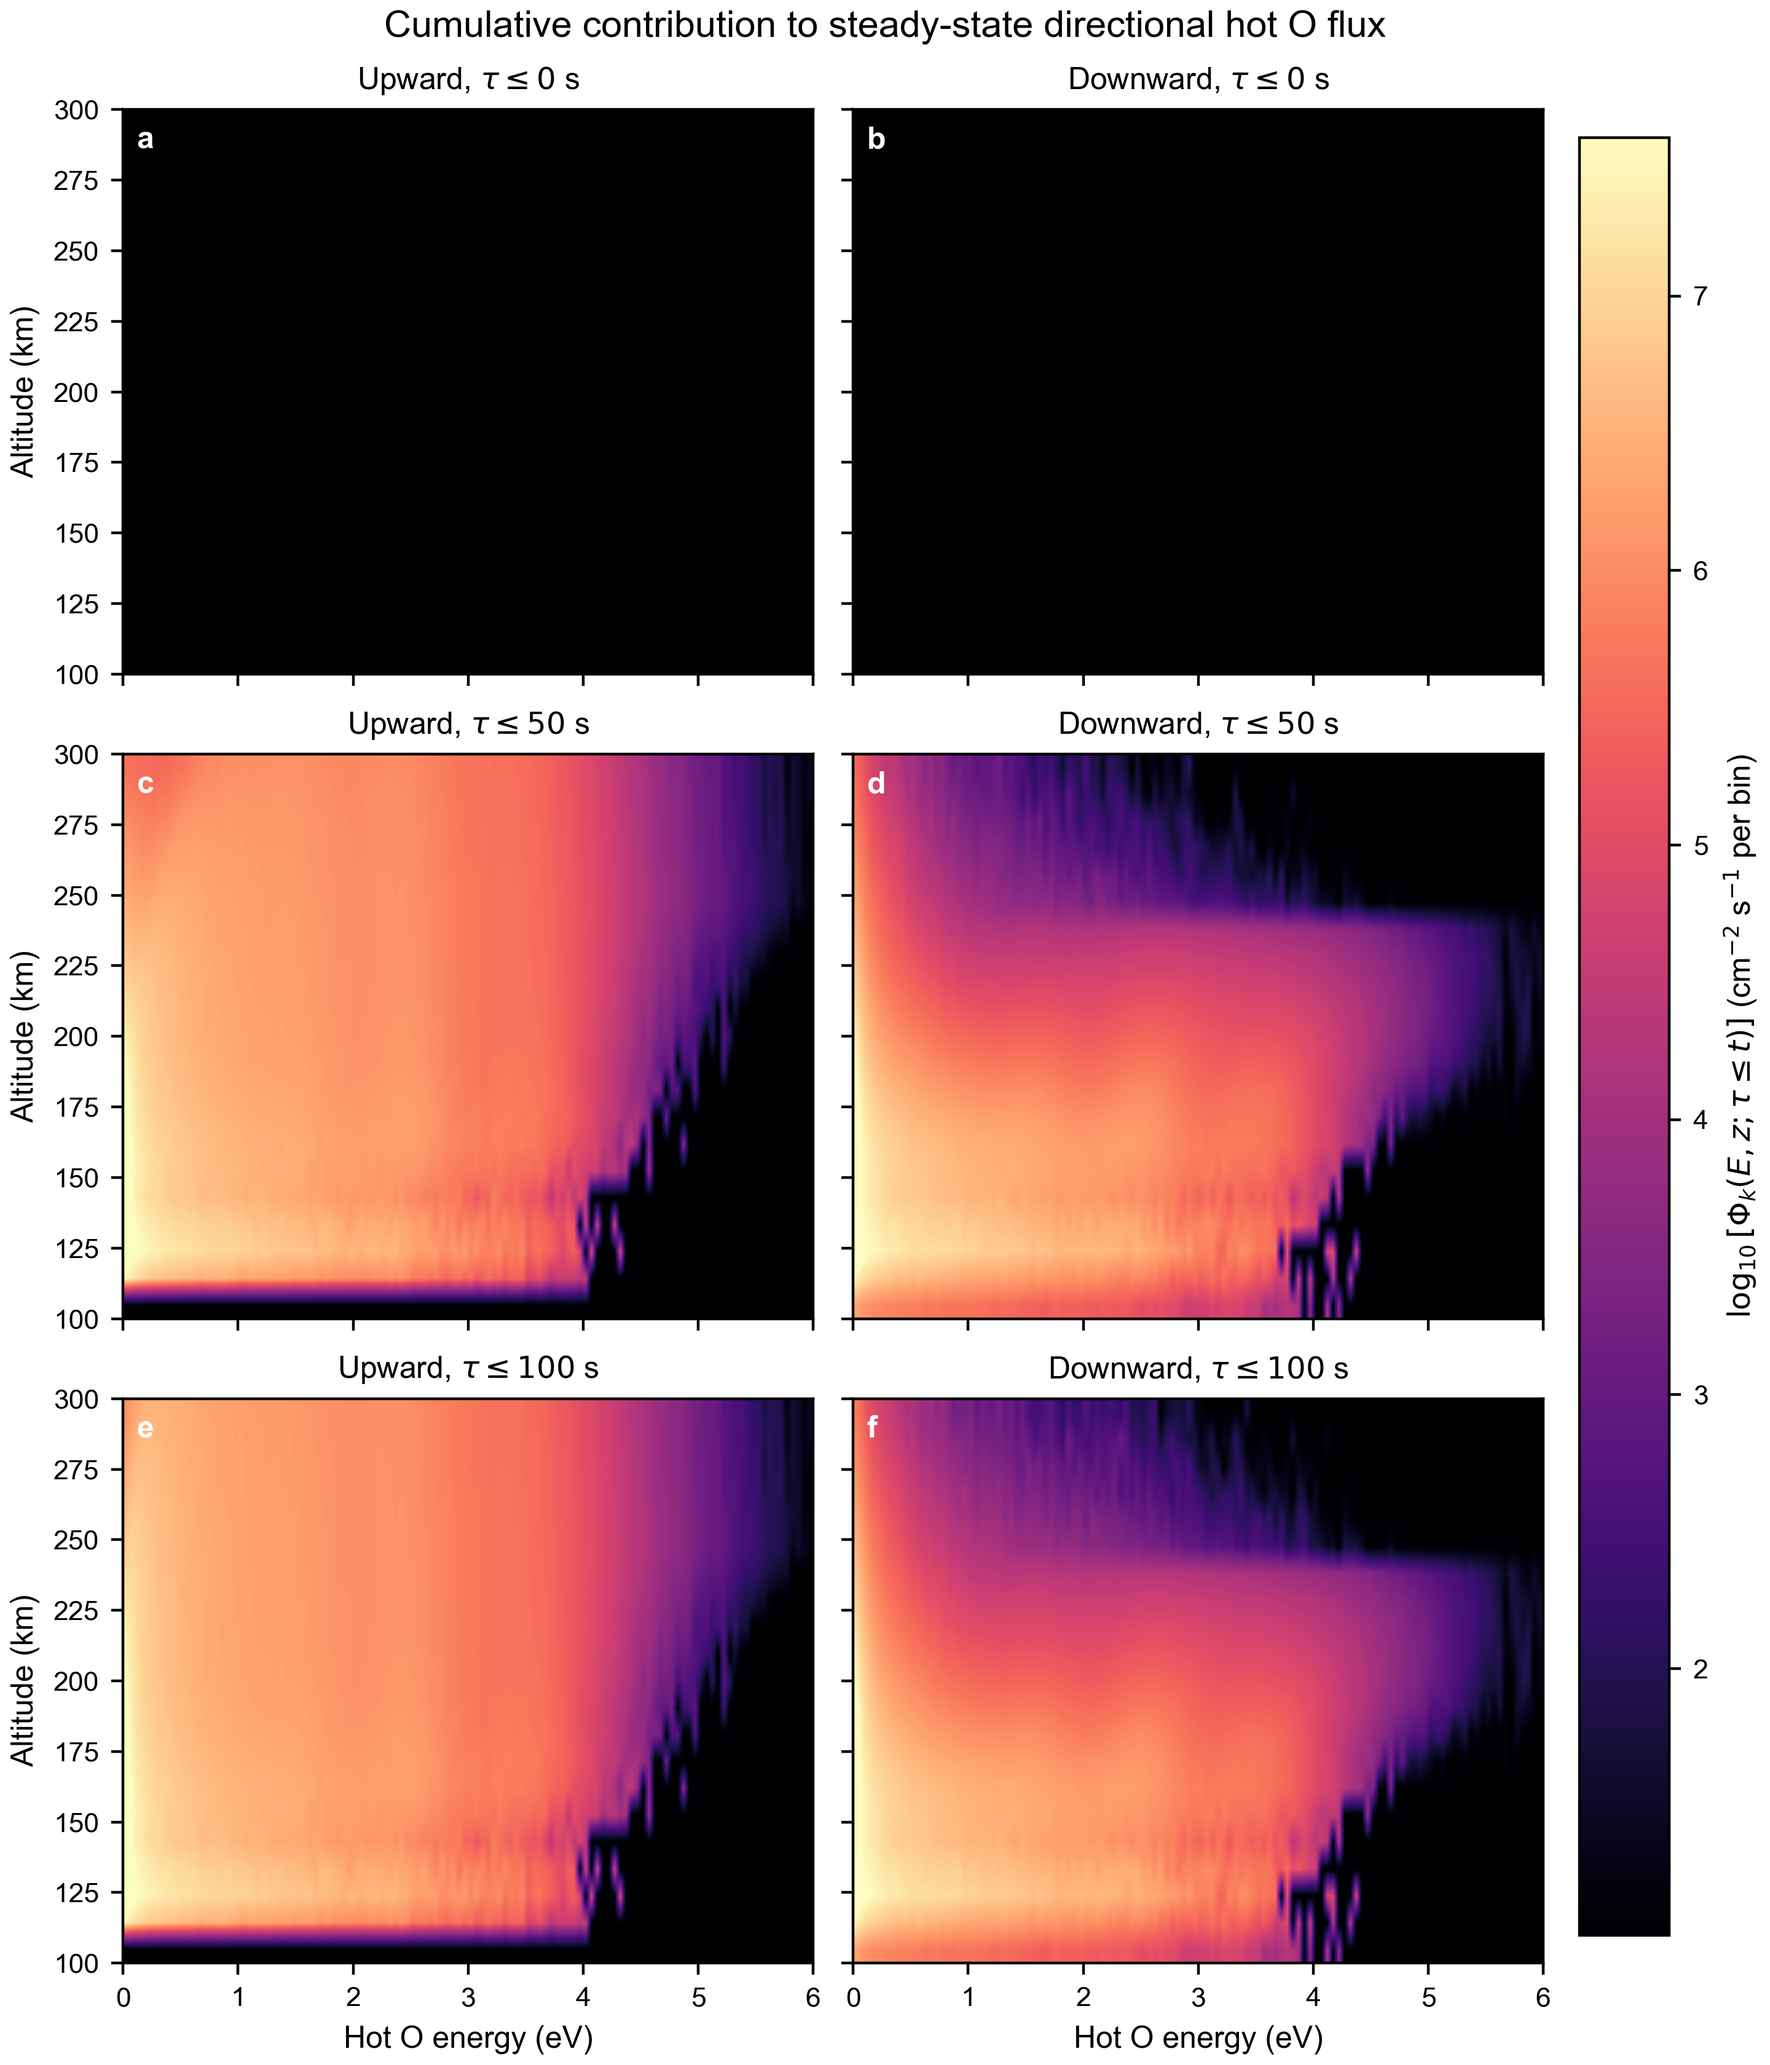
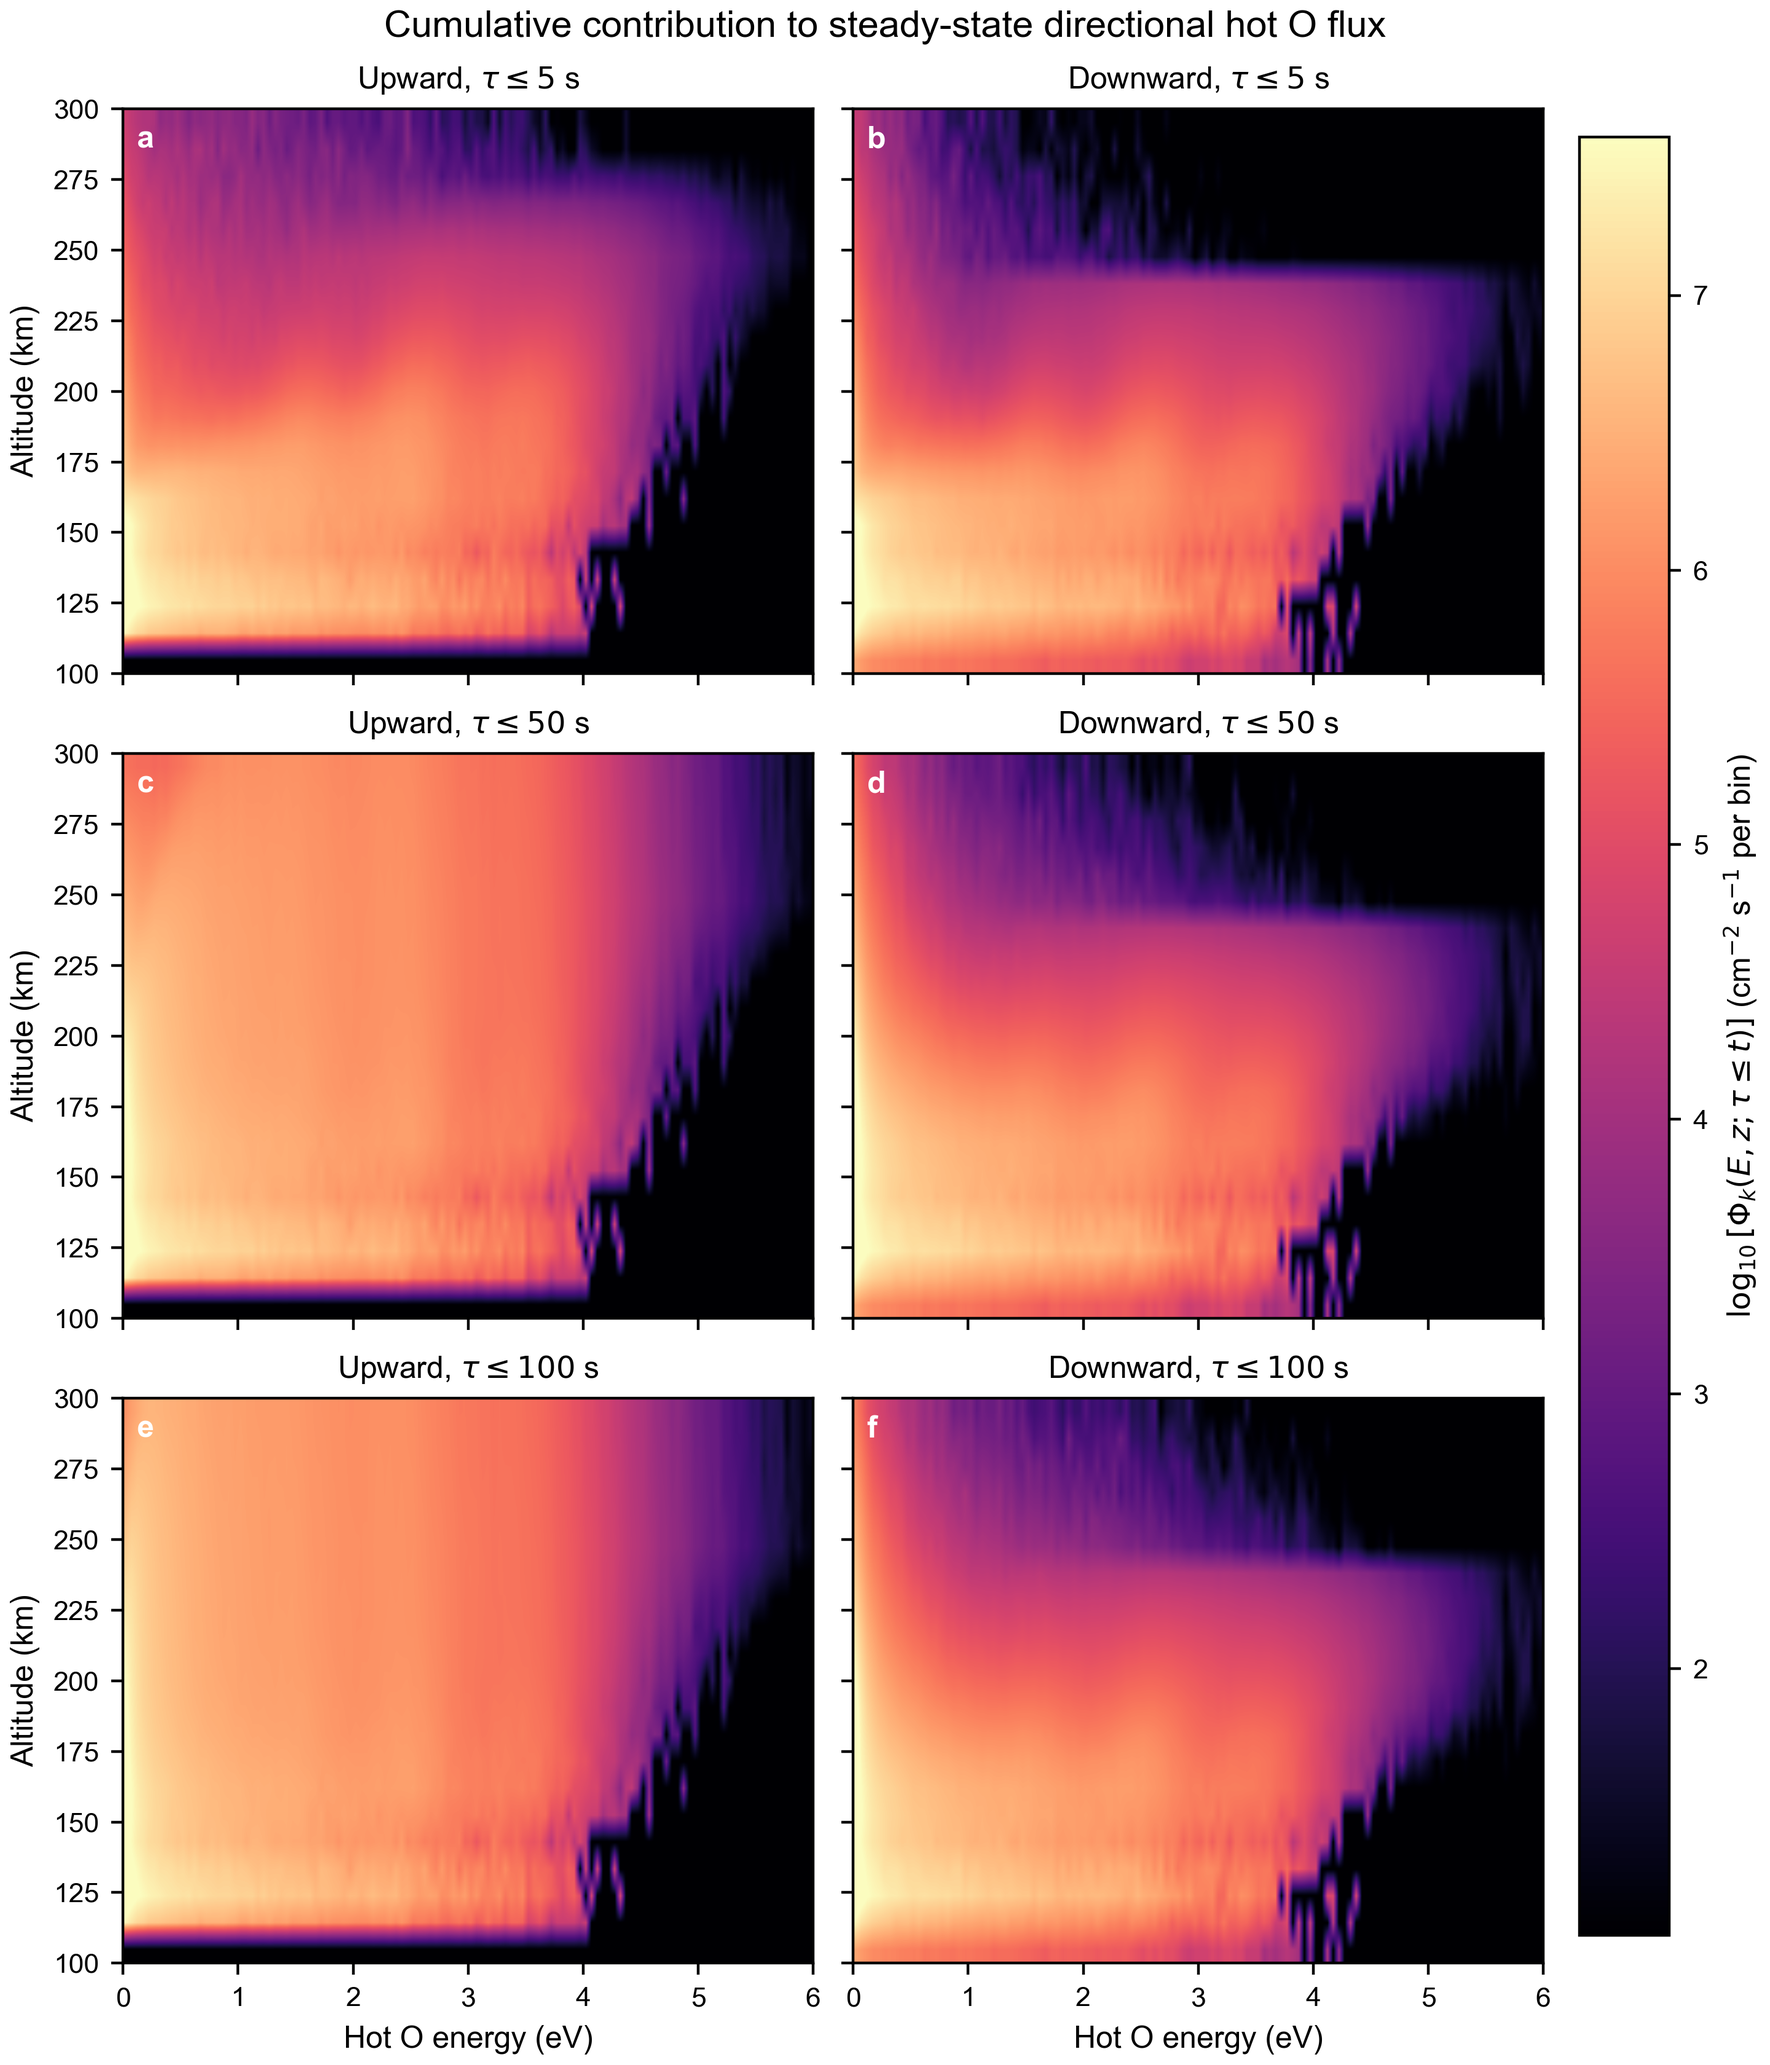
Update crossing flux panels and remove obsolete figures (#3)

Changed region(s): [[0.0625, 0.0312, 0.875, 0.3438]]

diff --git a/examples/plot_directional_crossing_flux_time_evolution.py b/examples/plot_directional_crossing_flux_time_evolution.py
@@ -5,7 +5,6 @@ import argparse
 
 import matplotlib as mpl
 import matplotlib.pyplot as plt
-from matplotlib.animation import FuncAnimation, PillowWriter
 import numpy as np
 
 from plot_directional_hot_o_flux import (
@@ -130,7 +129,7 @@ def log_values(values: np.ndarray, vmin: float) -> np.ndarray:
 def draw_static(
     upward: np.ndarray, downward: np.ndarray, output_base: Path,
 ) -> None:
-    selected_times = (0.0, 50.0, 100.0)
+    selected_times = (5.0, 50.0, 100.0)
     indices = [int(np.where(TIMES_S == value)[0][0]) for value in selected_times]
     vmin, vmax = color_limits(upward, downward)
     figure, axes = plt.subplots(
@@ -175,51 +174,6 @@ def draw_static(
     figure.savefig(output_base.with_suffix(".png"), dpi=400)
     figure.savefig(output_base.with_suffix(".pdf"))
     figure.savefig(output_base.with_suffix(".svg"))
-    plt.close(figure)
-
-
-def draw_animation(
-    upward: np.ndarray, downward: np.ndarray, output: Path,
-) -> None:
-    vmin, vmax = color_limits(upward, downward)
-    figure, axes = plt.subplots(
-        1, 2, figsize=(9.5, 4.4), sharex=True, sharey=True,
-        constrained_layout=True,
-    )
-    images = []
-    for axis, values, direction in zip(
-        axes, (upward, downward), ("Upward", "Downward")
-    ):
-        image = axis.imshow(
-            log_values(values[0], vmin), origin="lower", aspect="auto",
-            extent=(0, 6, 100, 300), interpolation="bilinear",
-            cmap="magma", vmin=vmin, vmax=vmax, animated=True,
-        )
-        axis.set(
-            xlabel="Hot O energy (eV)", ylabel="Altitude (km)",
-            title=direction,
-        )
-        images.append(image)
-    colorbar = figure.colorbar(images[0], ax=axes, pad=0.02)
-    colorbar.set_label(
-        r"$\log_{10}[\Phi_k(E,z;\tau\leq t)]$ "
-        r"(cm$^{-2}$ s$^{-1}$ per bin)"
-    )
-    title = figure.suptitle("")
-
-    def update(frame: int):
-        images[0].set_data(log_values(upward[frame], vmin))
-        images[1].set_data(log_values(downward[frame], vmin))
-        title.set_text(
-            "Cumulative contribution to steady-state directional flux\n"
-            rf"particle flight age $\tau\leq {TIMES_S[frame]:g}$ s"
-        )
-        return (*images, title)
-
-    animation = FuncAnimation(
-        figure, update, frames=TIMES_S.size, interval=350, blit=False,
-    )
-    animation.save(output, writer=PillowWriter(fps=3), dpi=150)
     plt.close(figure)
 
 
@@ -273,11 +227,7 @@ def main() -> None:
         upward, downward,
         figure_dir / "hot_o_directional_crossing_flux_time_panels",
     )
-    draw_animation(
-        upward, downward,
-        figure_dir / "hot_o_directional_crossing_flux_time_evolution.gif",
-    )
-    print("completed directional crossing-flux time evolution")
+    print("completed directional crossing-flux time panels")
 
 
 if __name__ == "__main__":

diff --git a/examples/animate_directional_hot_o_time_snapshots.py b/examples/animate_directional_hot_o_time_snapshots.py
@@ -10,7 +10,6 @@ import numpy as np
 ROOT = Path(__file__).resolve().parents[1]
 INPUT = ROOT / "examples/output/directional_hot_o_time_snapshots.dat"
 OUTPUT = ROOT / "examples/figures/hot_o_energy_altitude_time_evolution.gif"
-PREVIEW = ROOT / "examples/figures/directional_hot_o_time_snapshots_50s.png"
 
 mpl.rcParams.update({
     "font.family": "Arial",
@@ -58,8 +57,5 @@ def update(frame: int):
 animation = FuncAnimation(figure, update, frames=times.size, interval=350, blit=False)
 OUTPUT.parent.mkdir(parents=True, exist_ok=True)
 animation.save(OUTPUT, writer=PillowWriter(fps=3), dpi=150)
-update(int(np.argmin(np.abs(times - 50))))
-figure.savefig(PREVIEW, dpi=300)
 plt.close(figure)
 print(f"animation={OUTPUT.resolve()}")
-print(f"preview={PREVIEW.resolve()}")
